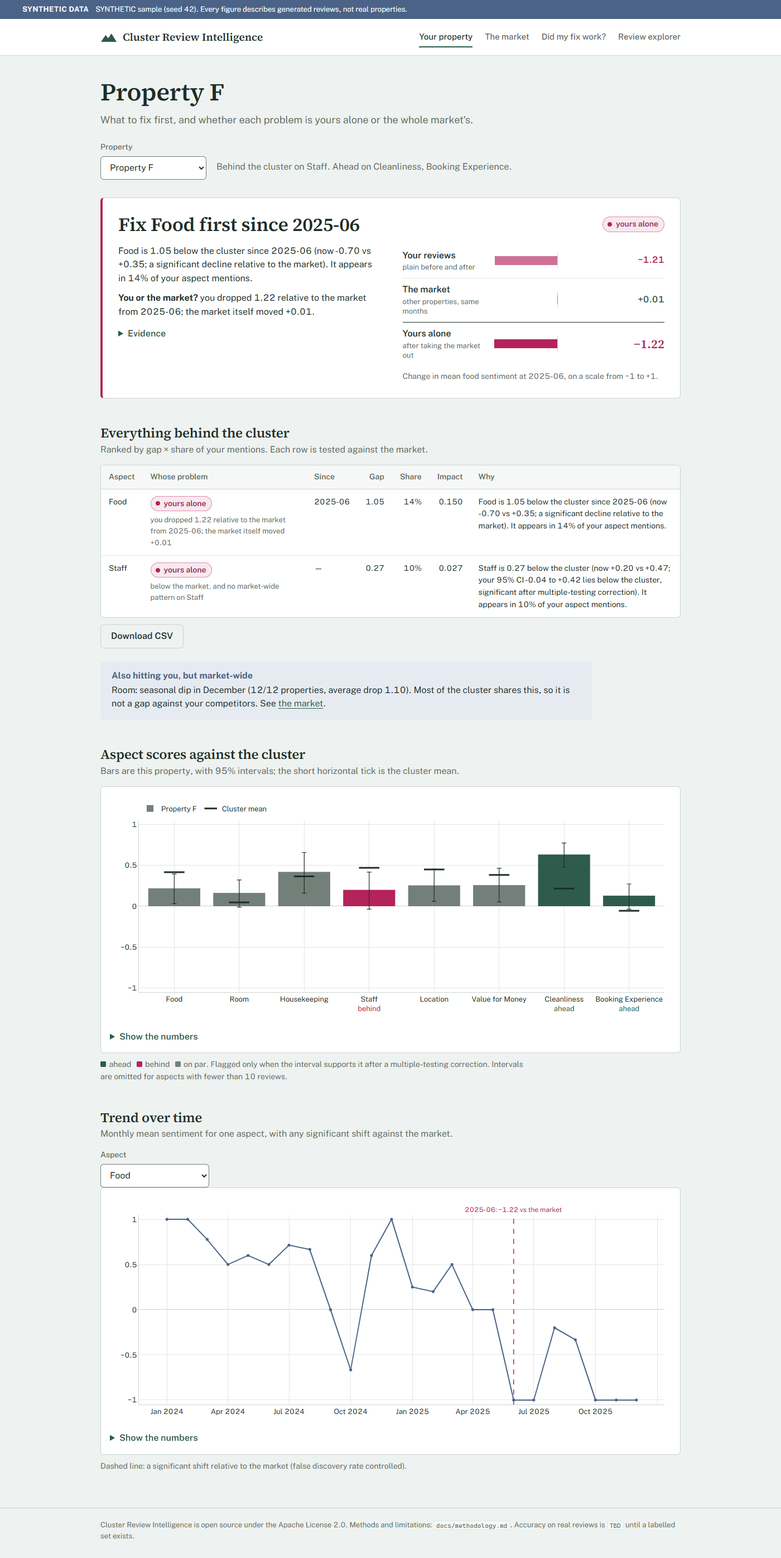
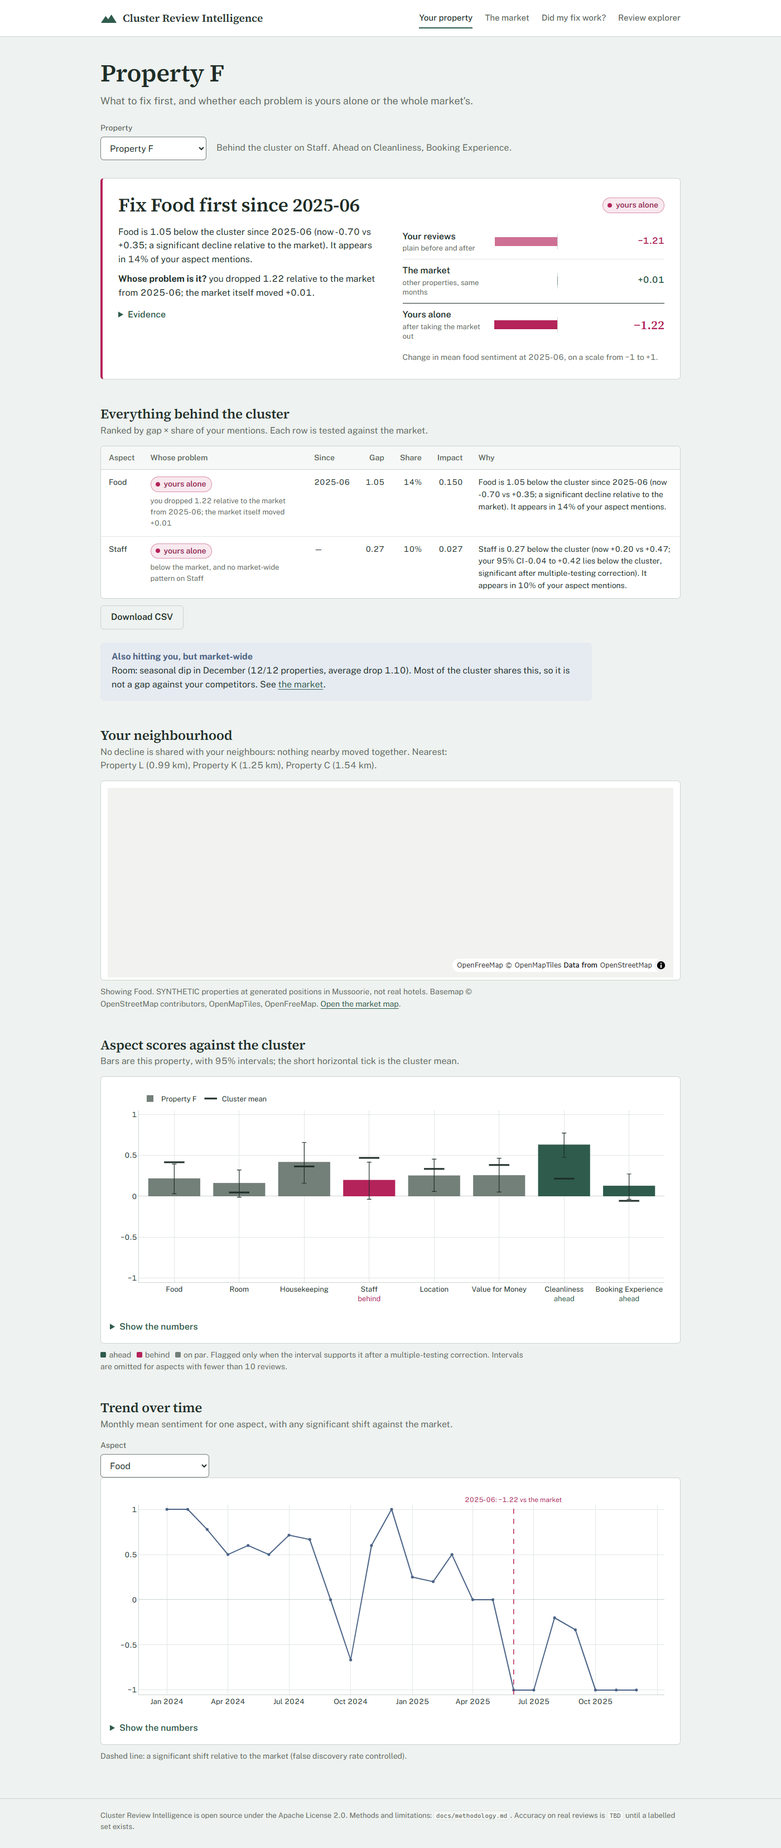
docs: neighbourhood method, calibration, positions schema, credits, demo
Methodology section 13 (method, measured calibration, limitations including the
market-reference side effect: extra changepoints per seed 0.10 -> 0.15),
data_schema positions file, API contract, OpenFreeMap/OSM/MapLibre credits,
TODO_RESULTS, README sections 2, 3, 6.2, 10.3, 14, DEMO optional map step,
regenerated screenshots.

diff --git a/scripts/capture_screenshots.py b/scripts/capture_screenshots.py
@@ -31,7 +31,7 @@ EXPLORER = "review_explorer_SYNTHETIC.png"
 
 def settle(page, marker: str) -> None:
     page.get_by_text(marker, exact=False).first.wait_for(timeout=60_000)
-    page.wait_for_timeout(2000)  # let Plotly finish drawing
+    page.wait_for_timeout(6000)  # let Plotly finish drawing and the map tiles load
 
 
 def main() -> None:

diff --git a/README.md b/README.md
@@ -73,15 +73,16 @@ whether its competitors had the same month.
 ## 2. Who it is for and what it answers
 
 **One user: the hotel or homestay owner** (or the manager who runs the property).
-**One question, asked before a fix and after it:** is this decline mine or the
-market's?
+**One question, asked before a fix and after it:** is this decline mine, my
+neighbourhood's, or the market's?
 
 | Question | Output |
 |---|---|
-| What should I fix first, and **whose problem is it?** | Ranked priority actions (gap to the cluster × share of mentions), each tested per property: `yours alone`, `everyone's` or `not tested` |
+| What should I fix first, and **whose problem is it?** | Ranked priority actions (gap to the cluster × share of mentions), each tested per property: `yours alone`, `your neighbourhood's`, `everyone's` or `not tested` |
 | Where do I lead or lag my cluster? | Per-aspect scorecard with review-level 95% confidence intervals and multiple-testing-controlled lead/lag flags |
 | Did something change, and since when? | Changepoints in sentiment **relative to the market**, with the month the shift began |
-| Which declines are market-wide? | Each negative shift labelled `market-wide`, `property-specific` or `undetermined` |
+| Which declines are market-wide? | Each negative shift labelled `market-wide`, `neighbourhood-wide`, `property-specific` or `undetermined` |
+| Is it my street? | With property positions: a spatial scan finds declines shared by nearby properties, drawn on an OpenStreetMap map |
 | Did my fix work? | Before/after change **minus the market's change**, with placebo rank and minimum detectable effect |
 | What exactly did guests say? | Every label traced to the clause it came from; try your own review |
 
@@ -102,12 +103,13 @@ Cleanliness, Booking Experience** (configurable in `src/cri/resources/aspects.ya
 | Benchmark | Cluster benchmark with review-level bootstrap 95% CIs; FDR-controlled lead/lag flags | Implemented | `src/cri/benchmark.py` |
 | Trends | "Is it me?": significance-tested changepoints relative to the market | Implemented | `src/cri/benchmark.py`, `src/cri/changepoint.py` |
 | Trends | "Is it the market?": seasonal dips and step declines tested across properties | Implemented | `src/cri/benchmark.py` |
+| Trends | "Is it my neighbourhood?": spatial scan with a permutation test over property positions | Implemented | `src/cri/neighbourhood.py`, `src/cri/locations.py` |
 | Insight | Priority actions ("fix this first"), each with whose problem it is, and the destination view | Implemented | `src/cri/insights.py` |
 | Insight | "Did my fix work?": market-adjusted before/after with timing check and placebo rank | Implemented | `src/cri/intervention.py` |
 | Interface | Stable review-intelligence facade | Implemented | `src/cri/api.py` |
 | Interface | HTTP API (FastAPI): live classification for the explorer, validated input, CORS | Implemented | `src/cri/server.py` |
-| Interface | Next.js web app, the only user interface | Implemented | `web/` |
-| Quality | Reproducible calibration of every detector on SYNTHETIC data | Implemented | `python -m cri.calibration`, `scripts/calibrate_intervention.py` |
+| Interface | Next.js web app, the only user interface; maps on an OpenFreeMap basemap (no API key) | Implemented | `web/` |
+| Quality | Reproducible calibration of every detector on SYNTHETIC data | Implemented | `python -m cri.calibration`, `scripts/calibrate_intervention.py`, `scripts/calibrate_neighbourhood.py` |
 | Quality | Evaluation harness: aspect P/R/F1, sentiment macro-F1, confusion matrix, error analysis | Implemented | `eval/predict.py`, `eval/score.py` |
 | Quality | Tests: pattern recovery, null-data silence, API contract, HTTP API, learned-model parity, demo claims; CI also type-checks and builds the web app | Implemented | `tests/`, `.github/workflows/ci.yml` |
 | Quality | Clause-level accuracy on real hand-labelled reviews | `TBD` (needs labelled data) | `docs/TODO_RESULTS.md` |
@@ -266,7 +268,9 @@ flowchart TD
     P -- No --> UD["Undetermined<br/>cannot separate market from property;<br/>priorities use the property's own history"]
     P -- Yes --> M{"Market pattern?<br/>seasonal dip recurring every year, or step decline,<br/>shared by at least 60% of properties<br/>(drop >= 0.3, BH q <= 0.05)"}
     M -- Yes --> MW["Market-wide<br/>everyone's: not a gap against competitors"]
-    M -- No --> C{"Property declined relative to the market?<br/>(BH q <= 0.05, effect >= 0.4)"}
+    M -- No --> NB{"Positions known, and a decline shared by<br/>properties within 1 km? (permutation p <= 0.05)"}
+    NB -- Yes --> NW["Neighbourhood-wide<br/>your neighbourhood's: act together"]
+    NB -- No --> C{"Property declined relative to the market?<br/>(BH q <= 0.05, effect >= 0.4)"}
     C -- Yes --> PS["Property-specific<br/>a competitive gap the property owns"]
     C -- No --> ST["Stable<br/>no significant negative shift"]
 ```
@@ -278,13 +282,19 @@ A market-wide label is never copied onto a property's row:
 - **yours alone**: the property declined relative to the market, or lags the market
   with no market-wide pattern on the aspect, or still lags once the market-wide
   patterns it takes part in are set aside;
+- **your neighbourhood's**: the property is one of at least 3 nearby properties
+  whose shared decline the spatial scan found (needs property positions; a
+  market-wide pattern takes precedence);
 - **everyone's**: the lag disappears once those patterns are set aside;
 - **not tested**: fewer than 3 properties review the aspect, or too few reviews remain
   outside the pattern.
 
 Example (SYNTHETIC): Room has a market-wide December dip at 12/12 properties, but
 Property D is still 0.36 below the market outside December, so its Room priority is
-**yours alone**.
+**yours alone**. Location fell from 2025-03 at Properties B, C, E and H, which sit
+within 0.27 km of each other: only C's decline is visible on its own, but pooled the
+scan finds it (p = 0.018), so each of them is told **your neighbourhood's**.
+Method and calibration: [`docs/methodology.md`](docs/methodology.md) section 13.
 
 ### 6.3 Did my fix work?
 
@@ -436,7 +446,15 @@ found in only 14/50: at this volume the check is underpowered for small changes,
 it reports the minimum detectable effect. Details:
 [`docs/methodology.md`](docs/methodology.md) section 12.
 
-### 10.3 Learned sentiment model
+### 10.3 "Is it my neighbourhood?" (SYNTHETIC simulations)
+
+Reproduce with `python scripts/calibrate_neighbourhood.py` (100 simulated
+12-property clusters per scenario). Four clustered neighbours that decline together
+were found in **100/100** (exactly those four in 95/100); the same four scattered
+over the town were grouped in **1/100**; with nothing changed, 3/100 were flagged.
+Details: [`docs/methodology.md`](docs/methodology.md) section 13.
+
+### 10.4 Learned sentiment model
 
 Held-out test sets, macro-F1 with a 95% bootstrap interval; reproduce with
 `python scripts/train_sentiment.py --model open|region`.
@@ -452,7 +470,7 @@ seeds vs 15/20), so **`rule` stays the default**. Details:
 [`docs/AI_MODEL.md`](docs/AI_MODEL.md) and the model card
 [`src/cri/resources/models/MODEL_CARD.md`](src/cri/resources/models/MODEL_CARD.md).
 
-### 10.4 Clause-level accuracy on real reviews
+### 10.5 Clause-level accuracy on real reviews
 
 | Metric (real labelled data) | Rule baseline | Model backend |
 |---|---|---|
@@ -470,7 +488,7 @@ python eval/predict.py eval/labelled/gold.csv --out eval/labelled/predictions.cs
 python eval/score.py eval/labelled/gold.csv --predictions eval/labelled/predictions.csv
 ```
 
-### 10.5 Figures (SYNTHETIC data)
+### 10.6 Figures (SYNTHETIC data)
 
 | Aspect benchmark: a property vs its cluster | Cluster heatmap: property x aspect |
 |---|---|
@@ -493,7 +511,7 @@ All four are regenerated by `scripts/make_figures.py` from `seed=42`. They depic
   years, only large shifts are detected at a 5% false-discovery rate. Thresholds are
   not loosened to inflate recall.
 - **False-discovery control, not zero false alarms.** Once a real finding exists,
-  Benjamini–Hochberg admits more marginal ones (about 0.1 extra changepoints per
+  Benjamini–Hochberg admits more marginal ones (about 0.15 extra changepoints per
   synthetic seed).
 - **Seasonality needs two years.** A dip is called seasonal only if it recurs in every
   observed year.
@@ -552,13 +570,14 @@ src/cri/api.py      review-intelligence facade (stable contract)
 src/cri/server.py   FastAPI service: live classify for the explorer
 src/cri/            schema, loader, sources, generate, normalize, classify, pipeline,
                     benchmark, changepoint, insights, intervention, calibration,
-                    transformer_backend, learned_backend
+                    locations, neighbourhood, transformer_backend, learned_backend
 src/cri/resources/  aspects.yaml, lexicon.yaml, models/ (shipped open model)
 eval/               predict.py, score.py, labelling guide, split_labels.py
 scripts/            demo, make_figures, capture_screenshots, calibrate_intervention,
-                    prepare_region_reviews, train_sentiment
+                    calibrate_neighbourhood, prepare_region_reviews, train_sentiment
 tests/              pattern recovery, API, server, learned model, demo claims
 data/sample/        SYNTHETIC reviews (committed); data/raw/ is gitignored
+data/locations/     SYNTHETIC property positions (kept out of the reviews folder)
 docs/               PRD, SRS, SYSTEM_DESIGN, AI_MODEL, BUSINESS_MODEL, DATA_SOURCES,
                     API_CONTRACTS, IMPLEMENTATION_PLAN, DEMO, DEPLOYMENT,
                     methodology, data_schema, CREDITS, TODO_RESULTS, img/, screenshots/

diff --git a/docs/methodology.md b/docs/methodology.md
@@ -188,8 +188,10 @@ baseline on real reviews is `TBD`.
 ## 10. Calibration on SYNTHETIC data
 
 Two datasets per seed share the same generator mechanics: *injected* (Property F's
-food falls from 2025-06; Room dips every December in every property) and *null*
-(`inject_patterns=False`), where any finding is a false alarm.
+food falls from 2025-06; Room dips every December in every property; Location falls
+from 2025-03 at four neighbouring properties, §13) and *null*
+(`inject_patterns=False`), where any finding is a false alarm. The four
+neighbours' own Location declines are injected, so they are not counted as extra.
 
 **Reproduce:** `python -m cri.calibration --seeds 1-20`
 
@@ -199,7 +201,7 @@ food falls from 2025-06; Room dips every December in every property) and *null*
 | … at exactly 2025-06 | 13/20 | 0.43–0.82 |
 | Food correctly called property-specific | 15/20 | 0.53–0.89 |
 | Room-December found market-wide | 20/20 | 0.84–1.00 |
-| Extra changepoints per injected seed | 0.10 | — |
+| Extra changepoints per injected seed | 0.15 | — |
 | Extra market patterns per injected seed | 0 | — |
 | Null seeds with any false alarm | 1/20 | — |
 
@@ -249,7 +251,9 @@ recall.
 - **Small samples.** 15/20 has a Wilson CI of 0.53–0.89; the clearly demonstrated
   improvement is in false alarms, not recall.
 - **FDR, not FWER.** Once a real finding exists, Benjamini–Hochberg admits more
-  marginal ones; about 0.1 extra changepoints per injected seed remain.
+  marginal ones; about 0.15 extra changepoints per injected seed remain (0.10
+  before the neighbourhood pattern was added; the difference is the §13 side effect
+  on the market reference).
 - **One changepoint per series**, located at the best split; the reported |Δ| at
   that split is biased upward (winner's curse). Multiple-changepoint methods (e.g.
   PELT) are not implemented: they need a penalty we cannot calibrate without
@@ -342,3 +346,91 @@ of 50), because the market estimate adds variance. That is what `mde` reports.
   36(5), 2017, doi:10.1287/mksc.2017.1043).
 - **Synthetic only.** The rates above are on simulated data; real-data behaviour
   is `TBD`.
+
+## 13. "Is it my neighbourhood?" — a spatial scan (`cri.neighbourhood`)
+
+"Yours alone" (§6) and "everyone's" (§7) miss a third case: a decline that a few
+**nearby** properties share and the rest of the market does not. Road works on one
+street, a water or power cut in one ward, a construction site. The right response
+is collective (neighbours, the hotel association, the municipality), not an
+in-house fix, and not "ignore it, everyone has it".
+
+Such a decline is often invisible property by property. In the SYNTHETIC sample
+four neighbours lose Location sentiment from 2025-03, but only one of them has
+enough Location reviews for its own decline to pass the §6 test; pooled, the
+four are clear.
+
+**Input.** Property positions (`property_id, lat, lon[, zone]`,
+`cri.locations`; see `docs/data_schema.md`). Without them nothing in this section
+runs and every other result is unchanged.
+
+**Method.**
+
+1. **Candidate neighbourhoods.** For each located property, the properties within
+   `NEIGHBOURHOOD_RADIUS_KM` = 1.0 km of it (great-circle distance), kept if there
+   are at least `NEIGHBOURHOOD_MIN_PROPERTIES` = 3 and at most
+   `NEIGHBOURHOOD_MAX_SHARE` = half of the located properties (a larger group is
+   the market, §7).
+2. **Group test.** Review values centred on each property's own level (§6.1), pooled
+   over the group, minus the market formed by the properties **outside** the group,
+   month by month. The best single negative step is found with the §6.2 test
+   (Bonferroni over splits; the outside market's variance included). The group's
+   score is −log₁₀ p of the **weakest leave-one-out** version of that test: the
+   decline must survive dropping any one member, so one strongly declining property
+   cannot make a neighbourhood.
+3. **Significance.** An in-space permutation test: positions are shuffled between
+   properties (null hypothesis: where a property is does not matter) and the whole
+   scan is repeated, `NEIGHBOURHOOD_PERMUTATIONS` = 499 times (seeded). The observed
+   score is compared with the **maximum over all groups and all aspects** of each
+   shuffle, which controls the family-wise error over both. Kept at
+   p ≤ `NEIGHBOURHOOD_MAX_P` = 0.05.
+4. **Members.** Group members whose own shift relative to the outside market, at the
+   detected month, is at least `MARKET_MIN_EFFECT` = 0.3 (as in §7); at least 3 are
+   required. `centre` is their mean position and `radius_km` the farthest member's
+   distance from it.
+
+**Use.** `market_scope` labels the aspect `neighbourhood-wide` when there is no
+market-wide pattern on it (a market-wide pattern takes precedence and the
+neighbourhood is mentioned in its `pattern`). For a member,
+`priority_actions.whose_problem` is `your neighbourhood's`, with the neighbours, the
+month, its own shift, the group's shift and p in `whose_detail`; the aspect is listed
+even when the property's own reviews alone would not flag it (`started` = the
+detected month). If the property also takes part in a market-wide pattern on that
+aspect, the §8 rules apply instead.
+
+**Calibration (SYNTHETIC, `python scripts/calibrate_neighbourhood.py`).** Simulated
+12-property clusters, one aspect, 3 reviews per property-month, each property with
+its own baseline; positions from `generate_locations`. A decline drops P(positive)
+to 0.15 from 2025-03. 100 seeds per scenario, 199 permutations per scan.
+
+| Scenario | Flagged neighbourhood-wide | 95% Wilson CI |
+|---|---|---|
+| Nothing changed | 3/100 | 1–8% |
+| 4 neighbours decline (clustered within 0.4 km) | 100/100 (exactly those 4: 95/100) | 96–100% |
+| The same 4 decline, scattered over the town | 1/100 | 0–5% |
+| 1 property declines, inside the neighbourhood | 4/100 | 2–10% |
+| The whole market declines | 6/100 | 3–12% |
+
+The false-alarm rates are consistent with the nominal 5% of the permutation test.
+In the whole-market case `market_scope` and `whose_problem` still report the
+market-wide pattern, because it takes precedence.
+
+**Limitations.**
+
+- **Positions are an input, not a finding.** Wrong or approximate positions
+  (a property placed at its booking office, say) change the neighbourhoods.
+- **One radius.** 1 km suits a compact hill town; a spread-out destination may
+  need a larger radius. It is a fixed, documented constant, not tuned on the data.
+- **Small clusters.** With fewer than 6 located properties no group can be at most
+  half the cluster and hold 3 properties, so nothing is tested.
+- **Approximations.** The same t-test approximations as §6; the permutation test is
+  exact only under exchangeability of positions.
+- **Not a cause.** "Shared by neighbours" says where, not why; the cause still has
+  to be found on the ground.
+- **The §6 market reference moves with a neighbourhood.** When four neighbours
+  decline, the leave-one-out market that every other property is compared with
+  dips too, so an unaffected property can look as if it *improved* relative to the
+  market. In 20 SYNTHETIC seeds this produced one such false positive changepoint
+  (seed 8: Property I, Location, +1.09 from 2025-04). Excluding detected
+  neighbourhood members from the market reference would remove it; not done yet.
+- **Synthetic only.** Real-data behaviour is `TBD`.

diff --git a/docs/TODO_RESULTS.md b/docs/TODO_RESULTS.md
@@ -32,7 +32,7 @@ Reproduce with `python -m cri.calibration --seeds 1-20` (details: methodology §
 | Property F food decline found (±1 month)  | 15/20  | 0.53–0.89     | misses are seeds whose injected drop is small |
 | Room-December found market-wide           | 20/20  | 0.84–1.00     | |
 | Pattern-free seeds with any false alarm   | 1/20   | —             | previous fixed-threshold detectors: 20/20 |
-| Extra changepoints per injected seed      | 0.10   | —             | FDR (not FWER) control; see methodology §11 |
+| Extra changepoints per injected seed      | 0.15   | —             | FDR (not FWER) control; one is a side effect of the neighbourhood pattern on the market reference (methodology §13) |
 
 ## "Did my fix work?" check (SYNTHETIC simulations, reproducible)
 
@@ -83,6 +83,20 @@ dropped with the layer on 2026-10-13; they are at the git tag `travel-layer-v1`.
 |---|---|
 | Agreement of verdicts with owner-confirmed causes, on real clusters | TBD: needs a real dated export and owner feedback |
 | Share of priorities owners act on (pilot) | TBD: no users yet |
+
+## Neighbourhood scan (SYNTHETIC simulations, reproducible)
+
+Reproduce with `python scripts/calibrate_neighbourhood.py` (details: methodology §13).
+Simulated 12-property clusters, 100 seeds per scenario, 199 permutations per scan.
+
+| Scenario                                          | Flagged neighbourhood-wide | Wilson 95% CI |
+|---------------------------------------------------|----------------------------|---------------|
+| Nothing changed                                   | 3/100                      | 0.01–0.08     |
+| 4 clustered neighbours decline                    | 100/100 (exact 4: 95/100)  | 0.96–1.00     |
+| The same 4 decline, scattered                     | 1/100                      | 0.00–0.05     |
+| 1 property declines inside the neighbourhood      | 4/100                      | 0.02–0.10     |
+| The whole market declines                         | 6/100                      | 0.03–0.12     |
+| Real neighbourhood-level declines (e.g. dated road works) | TBD                | TBD           |
 
 ## Web app and API
 

diff --git a/docs/data_schema.md b/docs/data_schema.md
@@ -21,6 +21,29 @@ Any column named (case-insensitively) `reviewer_name`, `reviewer_id`, `reviewer`
 `profile_url` is removed before validation. See `IDENTITY_COLUMNS` in
 `src/cri/schema.py`.
 
+## Optional: property positions
+
+A separate file (CSV or JSON), one row per property, enables the neighbourhood
+analysis (`docs/methodology.md` section 13) and the maps. Keep it **outside** the
+reviews folder: `load_dir` reads every file there as reviews. Load it with
+`cri.api.load_cluster(path, locations="positions.csv")` or `$CRI_LOCATIONS_PATH`.
+
+| Column | Type | Notes |
+|---|---|---|
+| `property_id` | string | Same ids as the reviews (aliases: `property`, `hotel`, `hotel_id`, `listing_id`) |
+| `lat` | float | Latitude in degrees, -90..90 (aliases: `latitude`, `y`) |
+| `lon` | float | Longitude in degrees, -180..180 (aliases: `lng`, `long`, `longitude`, `x`) |
+| `zone` | string, optional | A locality name, shown in tables (aliases: `area`, `neighbourhood`, `locality`) |
+
+A position for an id that is not in the reviews, a duplicate id, or an invalid
+coordinate is an error. Properties without a position are allowed and take no part
+in the neighbourhood analysis. **Privacy:** an exact position identifies a real
+hotel even under an anonymised name, so the web export snaps real positions to a
+0.5 km grid (`cri.locations.coarsen`); only SYNTHETIC positions are published as
+they are. The SYNTHETIC sample's positions are in
+`data/locations/synthetic_properties.csv` (`python -m cri.generate --locations-out
+data/locations/synthetic_properties.csv`).
+
 ## Validation rules
 
 - All required columns present (clear error listing any missing).

diff --git a/docs/API_CONTRACTS.md b/docs/API_CONTRACTS.md
@@ -92,6 +92,25 @@ removed with the travel layer (tag `travel-layer-v1`).
 
 ## Python facade changes (`cri.api` and friends)
 
+- **Property positions and neighbourhoods** (2026-10-13, additive; without
+  positions every existing result is unchanged).
+  - `ClusterData.locations` (optional, last field) and
+    `load_cluster(..., locations=path_or_frame)`; the SYNTHETIC sample gets its
+    generated positions. `$CRI_LOCATIONS_PATH` is the default for other data.
+  - `property_locations(d)` → `property_id, lat, lon, zone`.
+  - `neighbourhoods(d)` → `aspect, change_month, delta, n_members, members,
+    radius_km, centre_lat, centre_lon, p_value, gaps` (`cri.neighbourhood`,
+    methodology section 13).
+  - New values: `market_scope.scope` / `destination_summary.scope` may be
+    `neighbourhood-wide`; `priority_actions.whose_problem` may be
+    `your neighbourhood's`. Real row from the snapshot (Property B):
+
+    ```json
+    {"aspect": "Location", "started": "2025-03", "whose_problem": "your neighbourhood's",
+     "whose_detail": "Location fell at you and 3 neighbours within 0.27 km (Property C, Property E, Property H) from 2025-03: you -0.73 and the group -0.69 relative to the rest of the market; a decline this concentrated in one place arises by chance with p = 0.018"}
+    ```
+  - The web snapshot gains `locations`, `locations_exact` and `neighbourhoods`.
+
 - **`priority_actions` → `whose_problem`, `whose_detail`** (2026-10-13, additive; no
   column removed or renamed). `whose_problem` ∈ `yours alone | everyone's |
   not tested`, derived **per property** (rules: `docs/SYSTEM_DESIGN.md`), never joined

diff --git a/docs/CREDITS.md b/docs/CREDITS.md
@@ -10,6 +10,9 @@
 | `web/app/icon.svg` and the header mark | Original, hand-authored for this project | Project license (Apache-2.0). |
 | Public Sans (web app body text) | U.S. Web Design System, via Google Fonts; self-hosted at build time by `next/font` | SIL Open Font License 1.1 |
 | Source Serif 4 (web app headings) | Adobe, via Google Fonts; self-hosted at build time by `next/font` | SIL Open Font License 1.1 |
+| Map tiles and styles (web app maps) | [OpenFreeMap](https://openfreemap.org) (Positron and Dark styles), built on [OpenMapTiles](https://openmaptiles.org); loaded by the visitor's browser, not stored in the repo | Map data © [OpenStreetMap contributors](https://www.openstreetmap.org/copyright), ODbL; attribution shown on every map |
+| Map renderer | MapLibre GL JS, bundled inside Plotly.js (`plotly.js-dist-min`) | BSD-3-Clause |
+| SYNTHETIC property positions | Generated by `cri.generate.generate_locations` inside a Mussoorie bounding box | Not real hotels; project license |
 
 No scraped or stock photography is used anywhere in this repository. If any
 external asset is added later, it must be recorded in this table with its source
@@ -17,7 +20,7 @@ and license before being committed.
 
 ## Data
 
-All bundled data in `data/sample/` is **SYNTHETIC**, produced by
+All bundled data in `data/sample/` and `data/locations/` is **SYNTHETIC**, produced by
 `src/cri/generate.py`. It depicts fictional properties and contains no real
 reviews or personal data.
 

diff --git a/docs/DEMO.md b/docs/DEMO.md
@@ -45,6 +45,12 @@ loud: the on-page banner is hidden for now, so you are the label.
    - Room is **market-wide**: a seasonal dip every **December** at **12/12**
      properties. Every property has it, so it is not a gap against competitors.
    - **"Same chart, two opposite actions."**
+   - *Optional (20 s): the map.* `<app-url>/market/?aspect=Location`. Four
+     neighbours (B, C, E, H, within 0.27 km) lost Location together from 2025-03:
+     **neighbourhood-wide** (p = 0.018). Only one of them would show the decline on
+     its own. Property B's page says **"Raise Location with your neighbours since
+     2025-03"**: a road or water problem is solved with the neighbours and the
+     municipality, not in one kitchen.
 
 4. **`/fix-check` → Property A, Room, 2025-12 (30 s).** "Say they renovated rooms in
    December."
